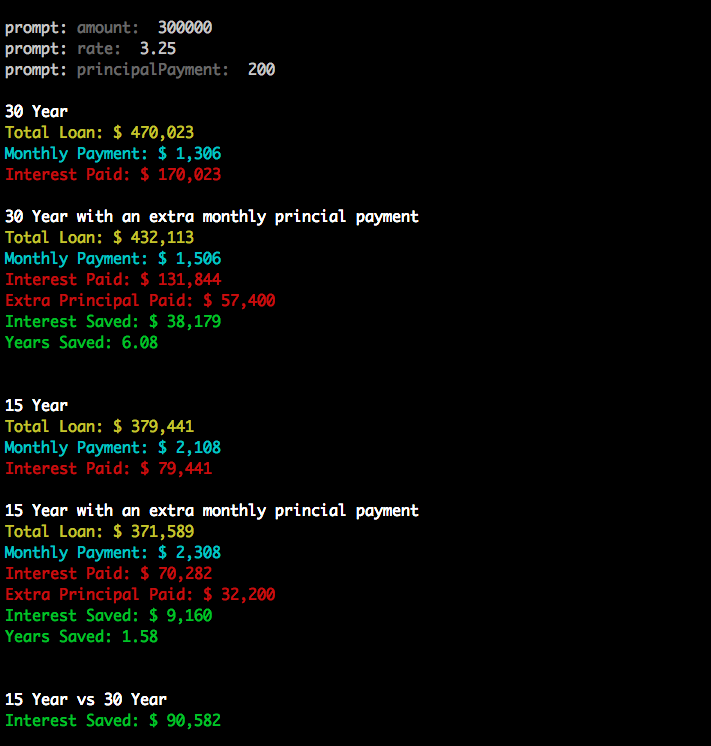
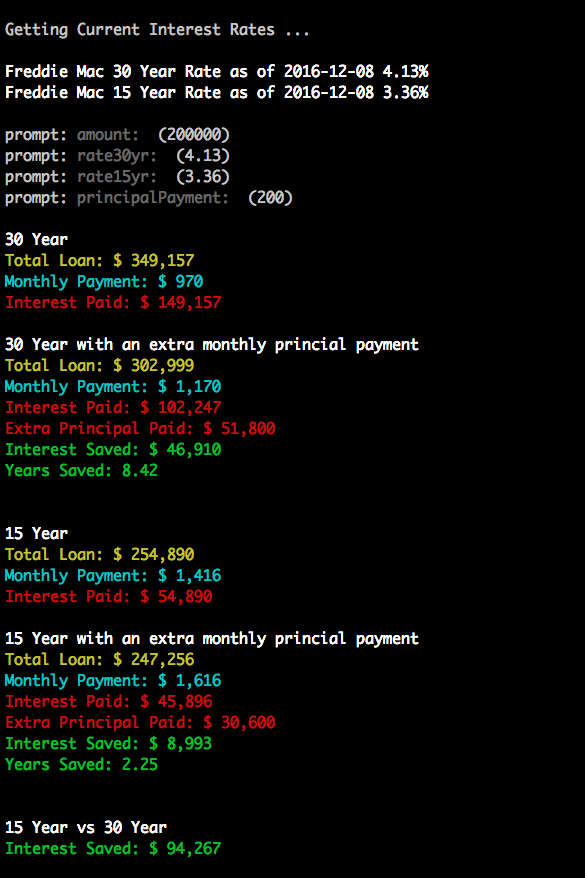
Added quandl to get Freddie Mac current national mortgage rates Added defaults for prompts

Changed region(s): [[0.0, 0.0, 0.7385, 0.8941], [0.0, 0.9249, 0.3692, 0.9866], [0.4308, 0.2158, 0.5231, 0.2466]]

diff --git a/index.js b/index.js
@@ -2,13 +2,42 @@ var amortize = require('amortize');
 var prompt = require('prompt');
 var chalk = require('chalk');
 var numeral = require('numeral');
+var Quandl = require("quandl");
+var quandl = new Quandl();
+
+console.log('Getting Current Interest Rates ...');
+
+quandl.dataset({ source: "FMAC", table: "FIX30YR" }, function(err, response){
+    if(err)
+        throw err;
+
+    var response30 = JSON.parse(response);
+
+    quandl.dataset({ source: "FMAC", table: "FIX15YR" }, function(err, response){
+      if(err)
+          throw err;
+
+    var response15 = JSON.parse(response);
+
+console.log(
+`
+${chalk.bold('Freddie Mac 30 Year Rate as of '+response30.dataset.data[0][0]+' '+response30.dataset.data[0][1]+'%')}
+${chalk.bold('Freddie Mac 15 Year Rate as of '+response15.dataset.data[0][0]+' '+response15.dataset.data[0][1]+'%')}
+`);
 
 prompt.start();
 
-prompt.get(['amount', 'rate', 'principalPayment'], function (err, result) {
+var prompts = [
+  { name: 'amount', default: 200000}
+  ,{ name: 'rate30yr', default: response30.dataset.data[0][1]}
+  ,{ name: 'rate15yr', default: response15.dataset.data[0][1]}
+  ,{ name: 'principalPayment', default: 200}
+];
+
+prompt.get(prompts, function (err, result) {
     var amz30p = amortize({
       amount: result.amount,
-      rate: result.rate,
+      rate: result.rate30yr,
       totalTerm: 360,
       amortizeTerm: 360,
       principalPayment: result.principalPayment
@@ -16,14 +45,14 @@ prompt.get(['amount', 'rate', 'principalPayment'], function (err, result) {
 
     var amz30 = amortize({
       amount: result.amount,
-      rate: result.rate,
+      rate: result.rate30yr,
       totalTerm: 360,
       amortizeTerm: 360
     });
 
     var amz15p = amortize({
       amount: result.amount,
-      rate: result.rate,
+      rate: result.rate15yr,
       totalTerm: 180,
       amortizeTerm: 180,
       principalPayment: result.principalPayment
@@ -31,7 +60,7 @@ prompt.get(['amount', 'rate', 'principalPayment'], function (err, result) {
 
     var amz15 = amortize({
       amount: result.amount,
-      rate: result.rate,
+      rate: result.rate15yr,
       totalTerm: 180,
       amortizeTerm: 180
     });
@@ -78,3 +107,7 @@ ${chalk.green('Interest Saved: $ '+numeral(amz30.interest-amz15.interest).format
 `);
 
 });
+
+}); //end quandl15
+
+}); //end quandl30
